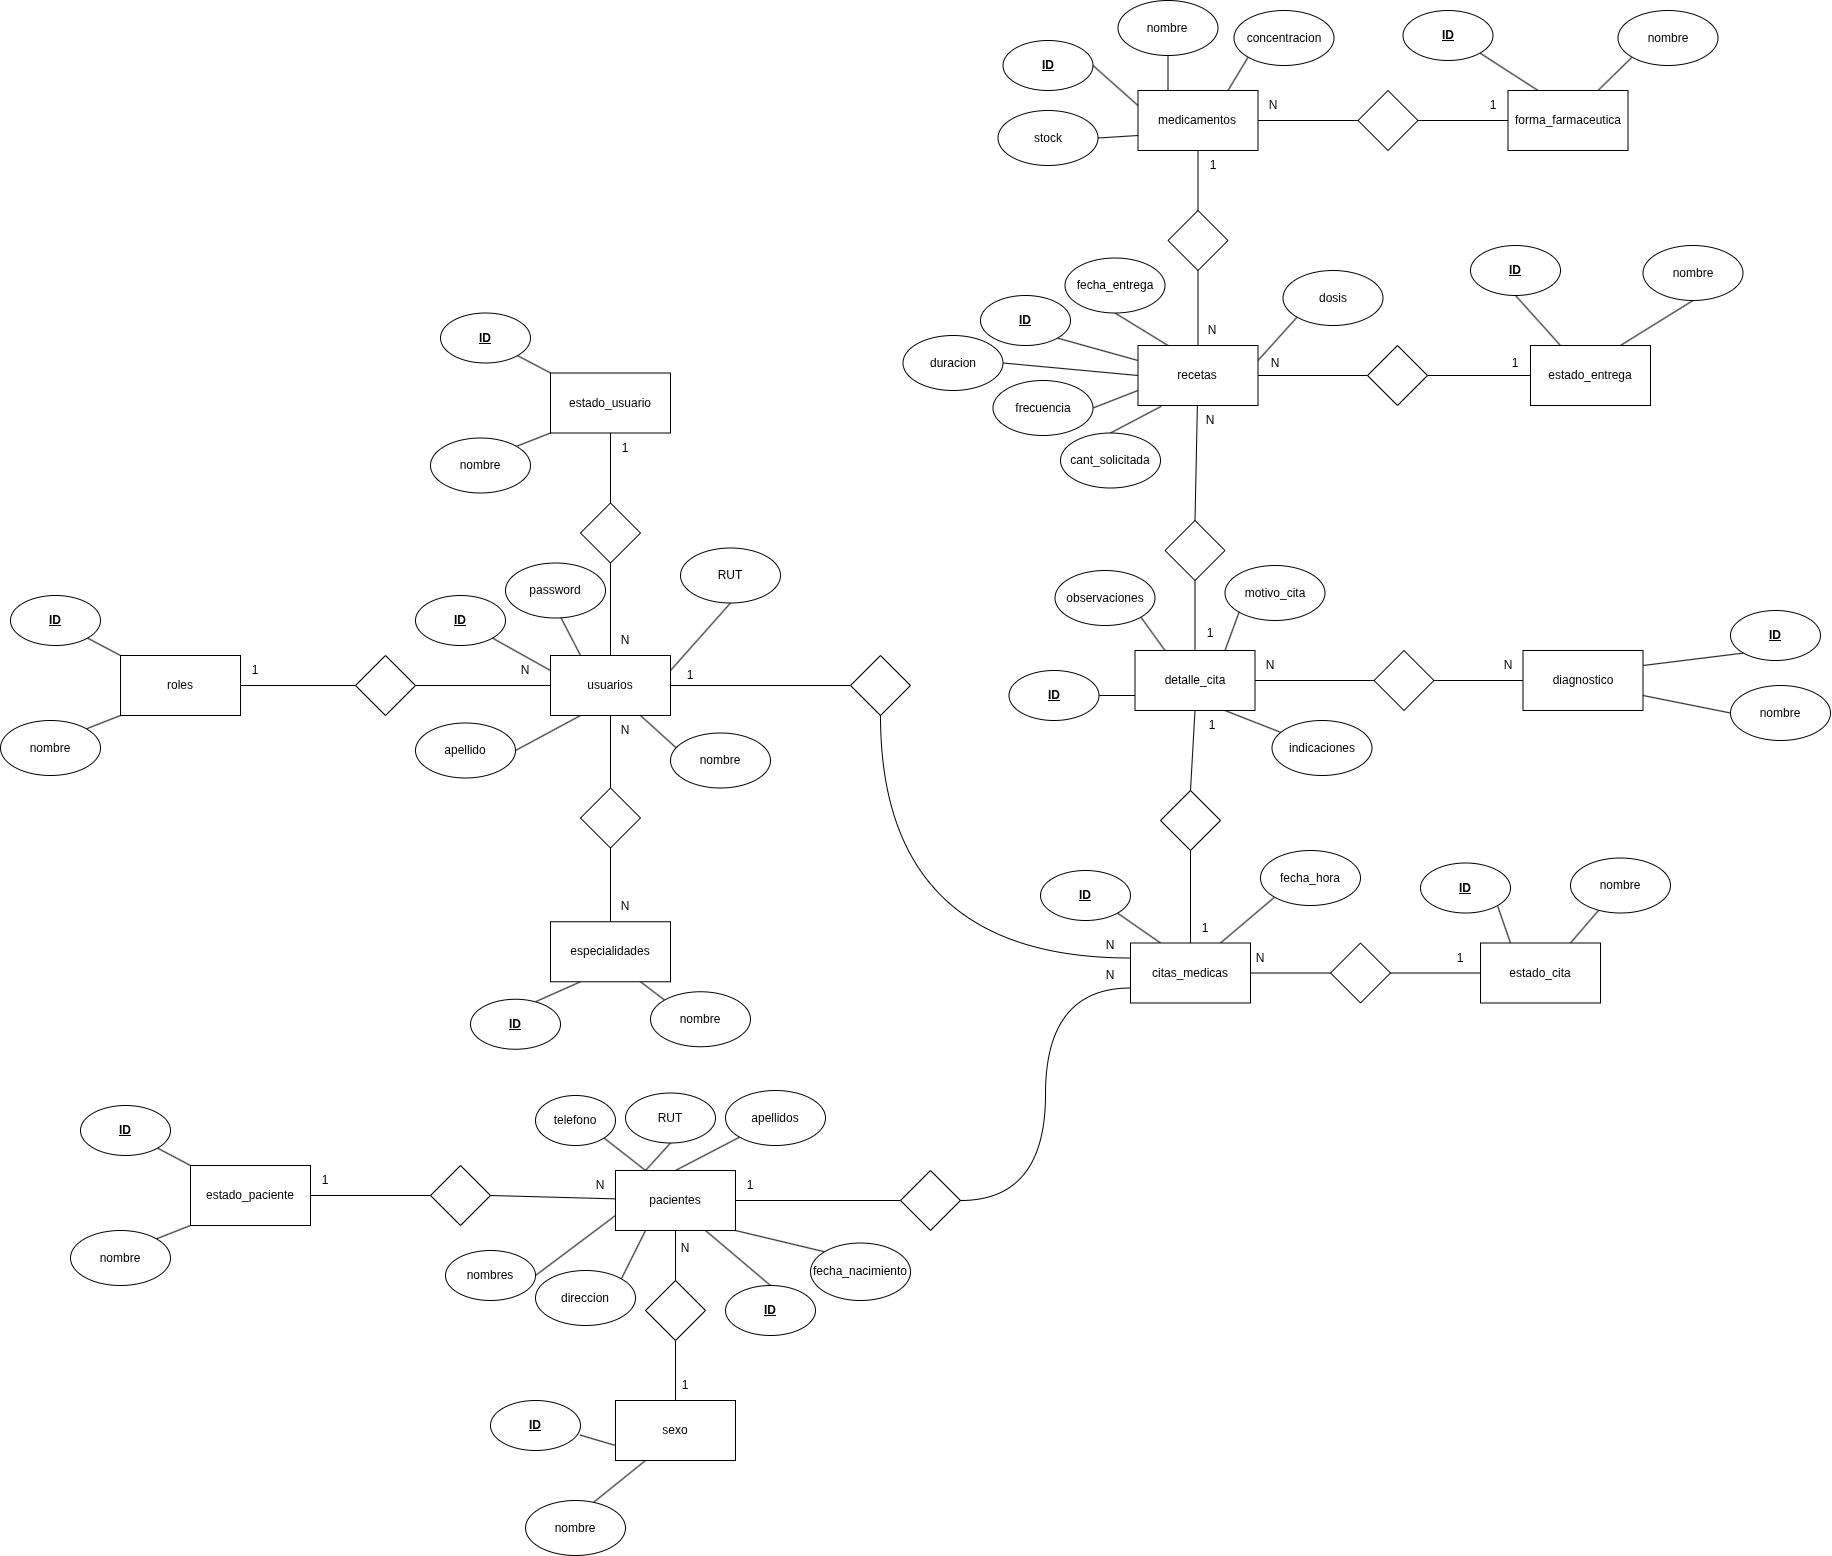
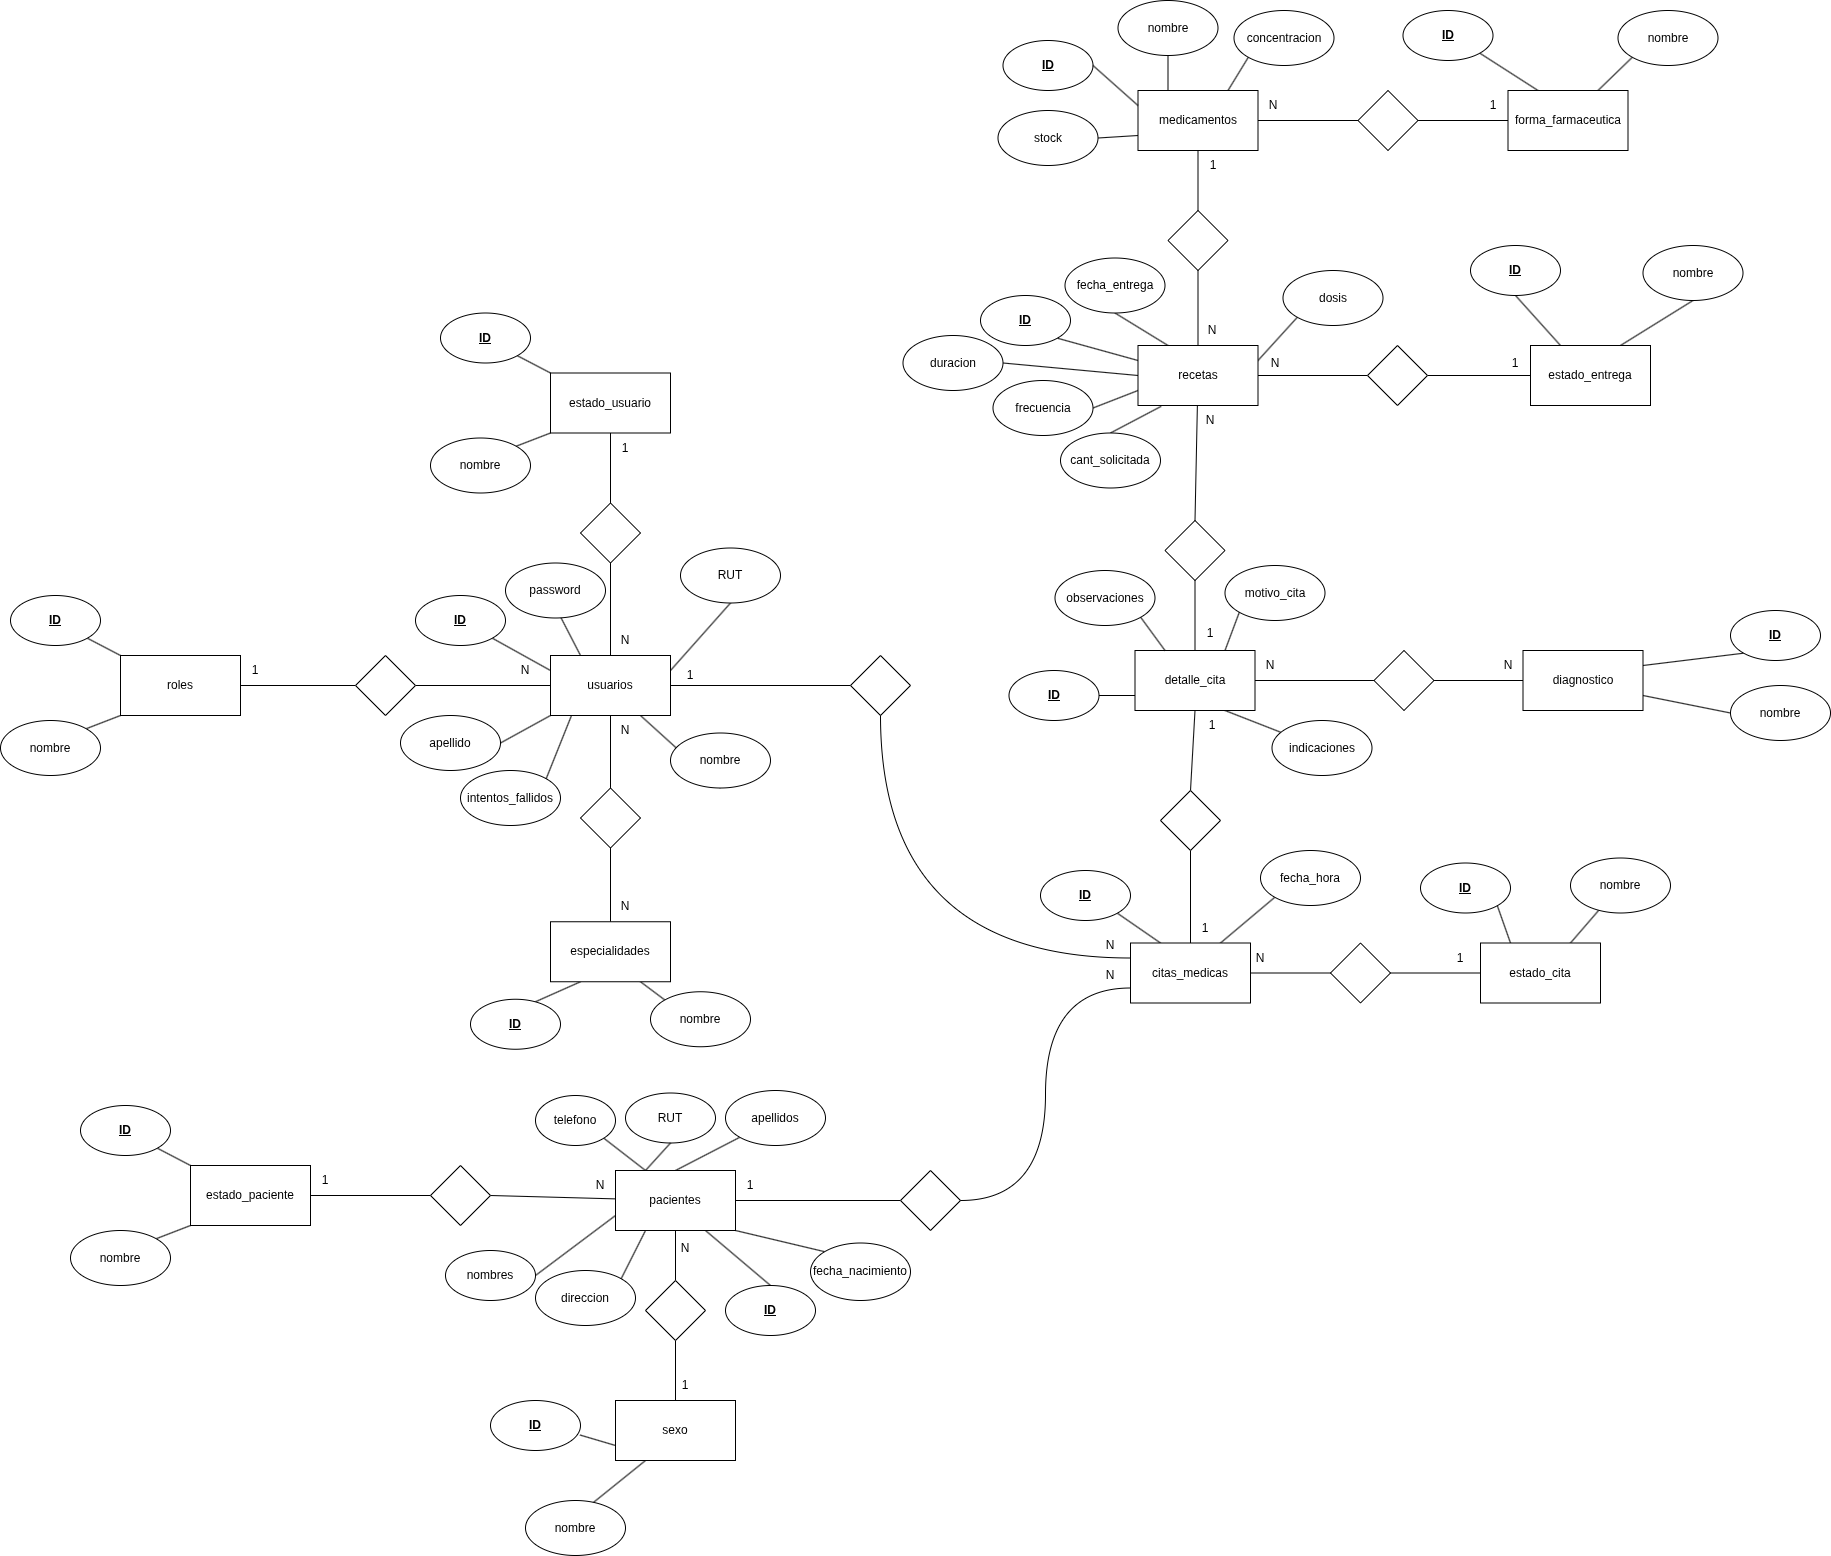
Inicio del menú del Admin
Se termino el modelo de usuarios en su totalidad, y se empezó a crear el menú del administrador.

diff --git a/models/usuarios.py b/models/usuarios.py
@@ -84,6 +84,104 @@ class Usuario:
                 c.cursor.close()
                 c.conexion.close()
 
+    def agregar_especialidad(self, id, especialidad_id):
+        c = None
+        try:
+            c = ConexionDB()
+            sql = """INSERT INTO especialidad_usuario (usuario_id, especialidad_id) 
+                        VALUES (%s, %s)"""
+            datos_recibidos = [id, especialidad_id]
+            c.cursor.execute(sql, datos_recibidos)
+            c.conexion.commit()
+        except Exception as e:
+            c.conexion.rollback()
+            print(f"Error al agregar especialidad al usuario: {e}")
+        finally:
+            if c is not None:
+                c.cursor.close()
+                c.conexion.close()
+
+    def deshabilitar_usuario(self, id):
+        c = None
+        try:
+            c = ConexionDB()
+            sql = "UPDATE usuarios SET estado_id = 2 WHERE id = %s"
+            id_recibido = [id]
+            c.cursor.execute(sql, id_recibido)
+            c.conexion.commit()
+        except Exception as e:
+            c.conexion.rollback()
+            print(f"Error al deshabilitar el usuario: {e}")
+        finally:
+            if c is not None:
+                c.cursor.close()
+                c.conexion.close()
+
+    def login(self, rut, password):
+        c = None
+        try:
+            c = ConexionDB()
+            sql = "SELECT * FROM usuarios WHERE rut = %s"
+            rut_recibido = [rut]
+            c.cursor.execute(sql, rut_recibido)
+            fila = c.cursor.fetchone()
+
+            if fila:
+                password_recibida = password
+                password_recibida = password.encode("utf-8")
+                password_bd = fila[4]
+                password_code = password_bd.encode("utf-8")
+
+                intentos = fila[7]
+
+                if fila[6] == 3:
+                    print("El usuario esta bloqueado. Contacte al administrador.")
+                    return None
+
+                dic_datos = {
+                    "id": fila[0],
+                    "rut": fila[1],
+                    "nombre": fila[2],
+                    "apellido": fila[3],
+                    "rol_id": fila[5]
+                }
+
+                if bcrypt.checkpw(password_recibida, password_code):
+                    if fila[6] == 2:
+                        print("Usuario deshabilitado. No puedes entrar")
+                        return None
+                    
+                    if intentos > 0:
+                        sql_reset = "UPDATE usuarios SET intentos_fallidos = 0 WHERE id = %s"
+                        datos_reset = [fila[0]]
+                        c.cursor.execute(sql_reset, datos_reset)
+                        c.conexion.commit()
+
+                    return dic_datos
+                else:
+                    nuevos_intentos = intentos + 1
+
+                    if nuevos_intentos >= 3:
+                        print("Has excedido los 3 intentos. Cuenta bloqueada.")
+                        sql_block = "UPDATE usuarios SET estado_id = 3, intentos_fallidos = %s WHERE id = %s"
+                        datos_block = [nuevos_intentos, fila[0]]
+                        c.cursor.execute(sql_block, datos_block)
+                    else:
+                        print(f"Contraseña incorrecta. Intento {nuevos_intentos}/3.")
+                        sql_update = "UPDATE usuarios SET intentos_fallidos = %s WHERE id = %s"
+                        datos_update = [nuevos_intentos, fila[0]]
+                        c.cursor.execute(sql_update, datos_update)
+                    
+                    c.conexion.commit()
+            else:
+                print("Usuario no encontrado.")
+        except Exception as e:
+            print(f"Error al iniciar sesión: {e}")
+        finally:
+            if c is not None:
+                c.cursor.close()
+                c.conexion.close()
+
     def obtener_por_rut(self, rut):
         c = None
         try:

diff --git a/menus.py b/menus.py
@@ -1,0 +1,31 @@
+from models.usuarios import Usuario
+
+# Menú del Administrador
+def menu_admin(usuario):
+    while True:
+        print("\n" + "=" * 40)
+        print(f"PANEL ADMINISTRADOR | Usuario: {usuario['nombre']} {usuario['apellido']}")
+        print("="*40)
+        print("1. Gestionar Usuarios")
+
+        op = int(input("Ingrese una opción: "))
+
+        if op == 1:
+            u = Usuario()
+            print("\n[!] Entrando al módulo de Gestión de Usuarios...")
+            print("\n Ingrese una de las siguientes opciones: ")
+            print("1. Agregar Usuario")
+            print("2. Modificar Usuario")
+            print("3. Deshabilitar Usuario")
+            print("4 Consultar Usuarios")
+
+            op_usuarios = int(input("---> "))
+
+            if op_usuarios == 1:
+                u.rut = input("Ingresa el RUT del usuario: ")
+                u.nombre = input("Ingresa el nombre del usuario: ")
+                u.apellido = input("Ingresa el apellido del usuario: ")
+                u.password = input("Ingresa la contraseña del usuario: ")
+                u.rol_id = input("Ingresa el rol del usuario: ")
+                u.agregar_usuario()
+                print("Usuario agregado exitosamente")

diff --git a/main.py b/main.py
@@ -1,0 +1,43 @@
+import getpass
+import sys
+from models.usuarios import Usuario
+from menus import *
+
+def main():
+    u = Usuario()
+    print("\n" + "-" * 56)
+    print("Bienvenido al Sistema de Control de Pacientes (PyCesfam)")
+    print("-" * 56)
+
+    rut = input("Ingrese RUT (0 'salir' para cerrar): ")
+    
+    if rut.lower() == "salir":
+        print("Saliendo del sistema...")
+        sys.exit()
+    
+    password = getpass.getpass("Ingrese contraseña: ")
+
+    datos_usuario = u.login(rut, password)
+
+    if datos_usuario:
+        rol = datos_usuario["rol_id"]
+
+        # Redirección en base al rol del usuario.
+        if rol == 1:
+            # Administrador
+            menu_admin(datos_usuario)
+        elif rol == 2:
+            # Médico
+            pass
+        elif rol == 3:
+            # SOME
+            pass
+        elif rol == 4:
+            # Farmacéutico
+            pass
+        else:
+            print("Error el rol no tiene un menú asignado.")
+
+
+if __name__ == "__main__":
+    main()
